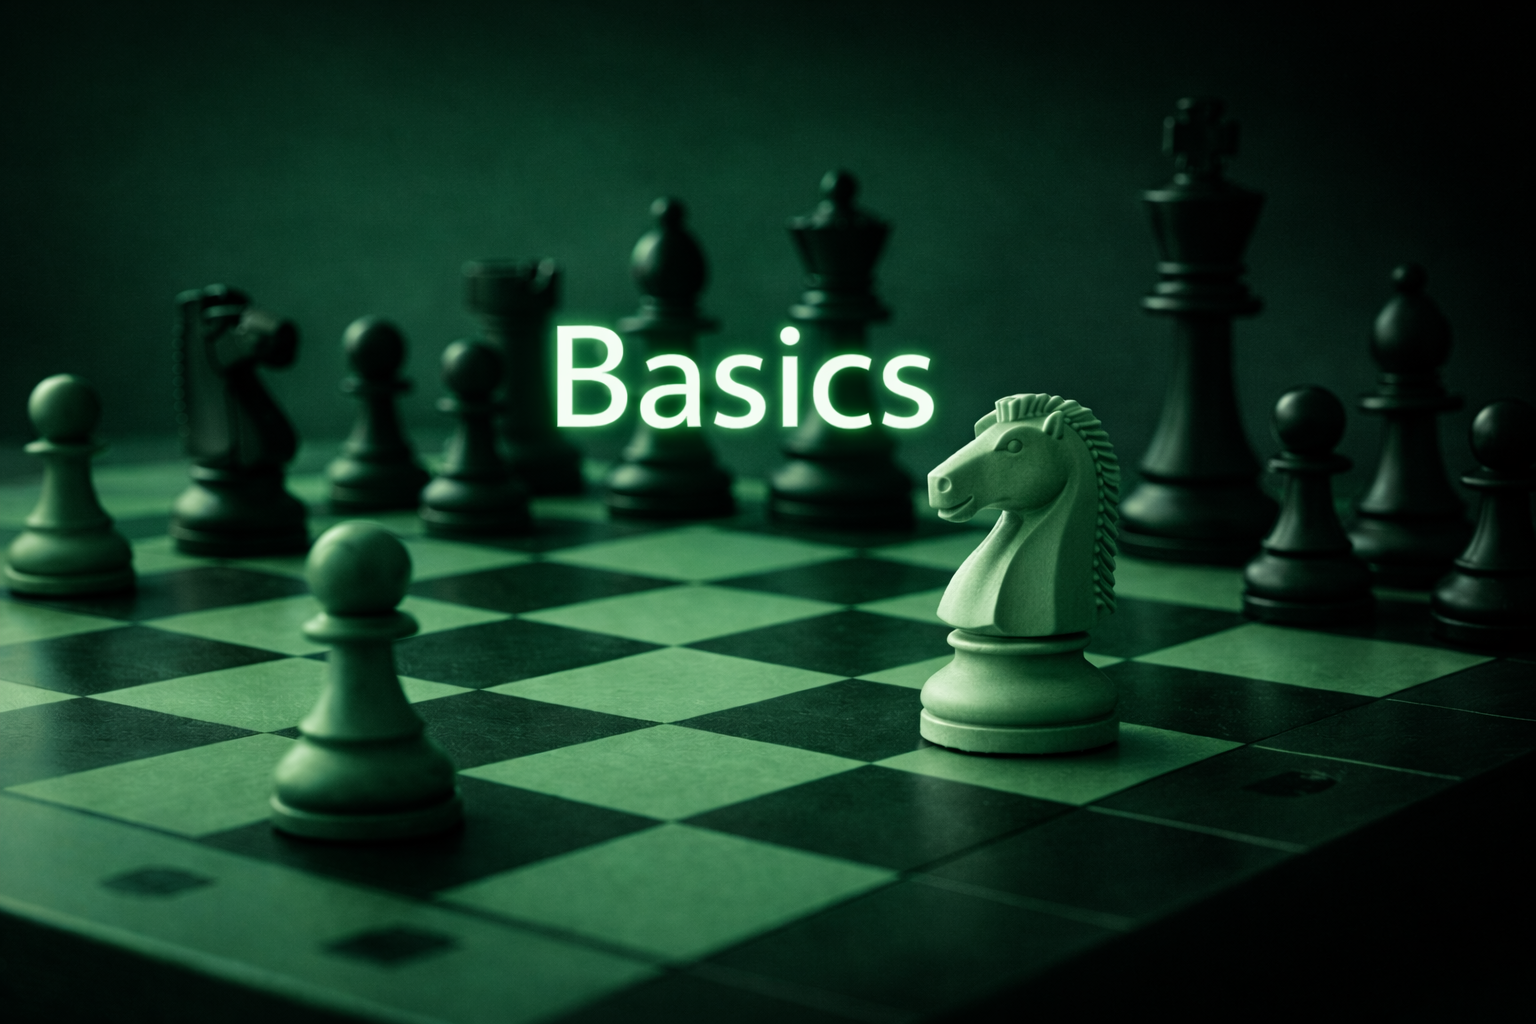
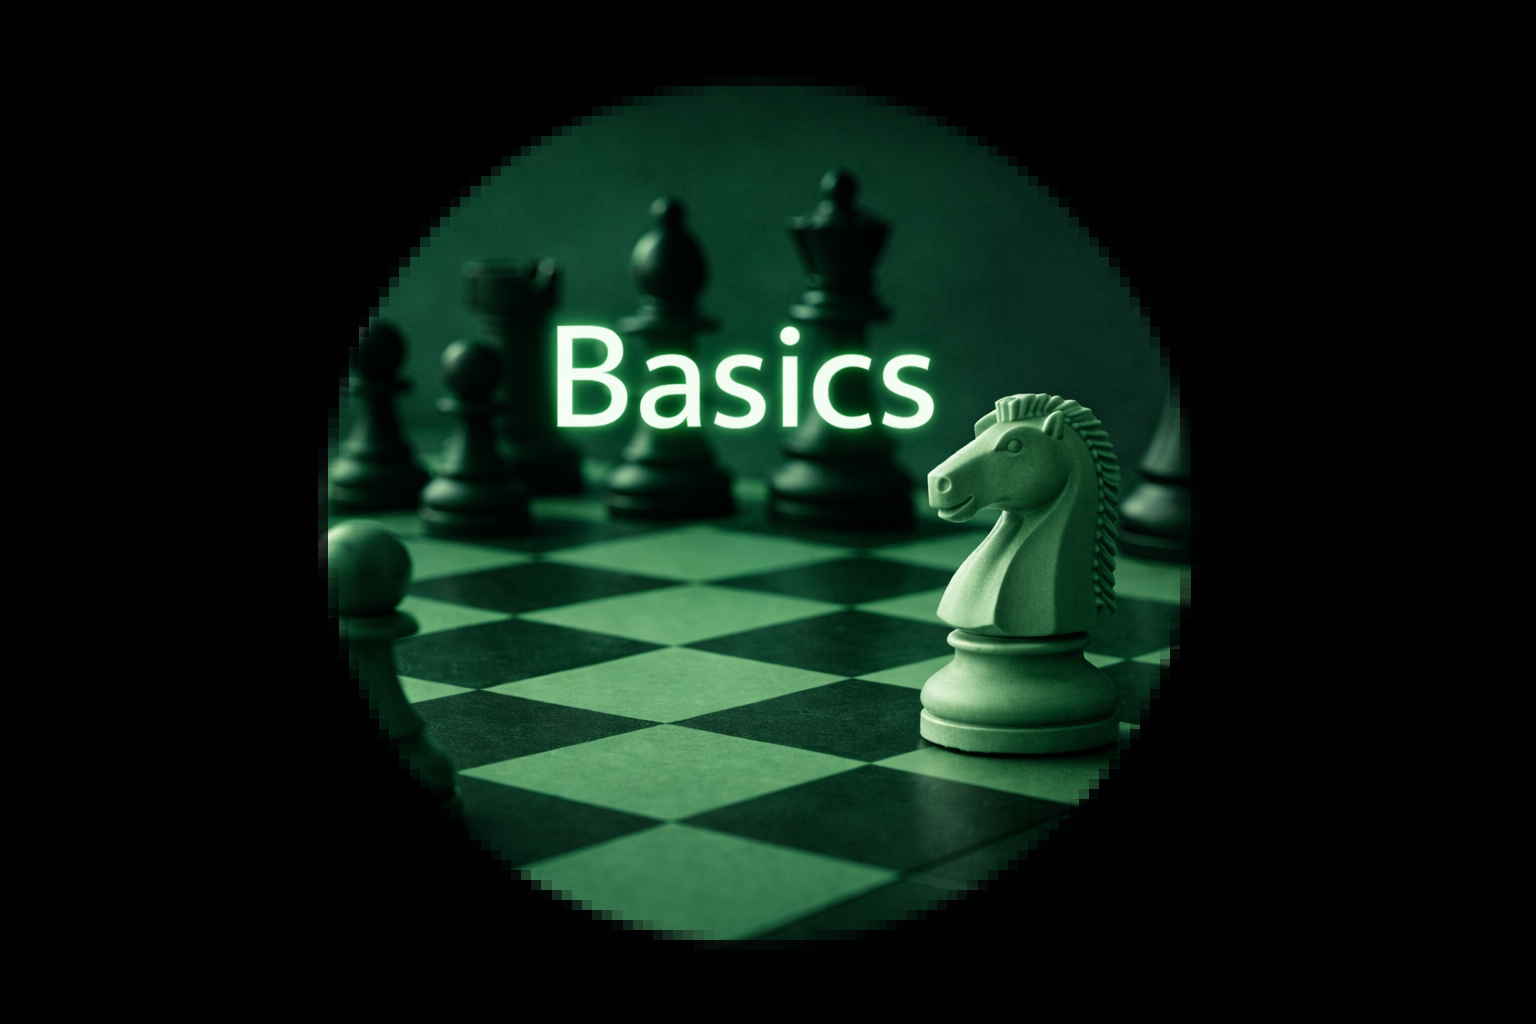
Added CHESSHELPER button on all topics

diff --git a/ChessProjectTest/styleOther.css b/ChessProjectTest/styleOther.css
@@ -18,6 +18,21 @@
             margin: 0 auto;
             padding: 26px 18px 40px;
         }
+        .mainfont {
+            font-family: 'Arial', sans-serif; /* Replace with exact font if known */
+            font-weight: 800;                 /* Bold */
+            font-size: 29px;                  /* Adjust size as needed */
+            color: #FFFFFF;                   /* White text */
+            text-transform: uppercase;        /* All caps */
+            letter-spacing: 2px;              /* Slight spacing between letters */
+            text-shadow: 2px 2px 4px rgba(0,0,0,0.5); /* Subtle shadow for depth */
+            background-color: #2C2C2C;        /* Dark background similar to the image */
+            padding: 10px 20px;               /* Optional padding */
+            display: inline-block;    
+            text-decoration: none;        /* Ensures proper sizing */
+        }
+
+        
 
         h1,
         h2 {

diff --git a/ChessProjectTest/index.html b/ChessProjectTest/index.html
@@ -96,7 +96,7 @@
                             <div class="portfolio-item-caption-content text-center text-white"><i
                                     class="fas fa-plus fa-3x"></i></div>
                         </div>
-                        <img class="img-fluid" src="assets/img/portfolio/basic.png" alt="..." />
+                        <img class="img-fluid" src="assets/img/portfolio/basicBlack.png" alt="..." />
                     </div>
                 </div>
                 <!-- Portfolio Item 3-->

diff --git a/ChessProjectTest/styles.css b/ChessProjectTest/styles.css
@@ -9,7 +9,7 @@
   --bs-orange: #fd7e14;
   --bs-yellow: #ffc107;
   --bs-green: #198754;
-  --bs-teal: #1abc9c;
+  --bs-teal: #25a51e;
   --bs-cyan: #0dcaf0;
   --bs-black: #000;
   --bs-white: #fff;
@@ -63,7 +63,7 @@
   --bs-border-radius-xl: 1rem;
   --bs-border-radius-2xl: 2rem;
   --bs-border-radius-pill: 50rem;
-  --bs-link-color: #1abc9c;
+  --bs-link-color: #42ba2a;
   --bs-link-hover-color: #15967d;
   --bs-code-color: #d63384;
   --bs-highlight-bg: #fff3cd;

diff --git a/ChessProjectTest/tactic.html b/ChessProjectTest/tactic.html
@@ -11,7 +11,7 @@
 </head>
 
 <body>
-
+    <a class="mainfont" href="index.html">ChessHelper</a>
     <header>
         <h1>Tactics of Chess</h1>
         <p>4 important tactics every beginner should know</p>

diff --git a/ChessProjectTest/basics.html b/ChessProjectTest/basics.html
@@ -11,6 +11,7 @@
 </head>
 
 <body>
+    <a class="mainfont" href="index.html">ChessHelper</a>
     <header>
         <h1>Basics of Chess</h1>
         <p>Simple rules, piece moves, and the main goal</p>

diff --git a/ChessProjectTest/history.html b/ChessProjectTest/history.html
@@ -11,6 +11,7 @@
 </head>
 
 <body>
+    <a class="mainfont" href="index.html">ChessHelper</a>
 
     <header>
         <h1>History of Chess</h1>
